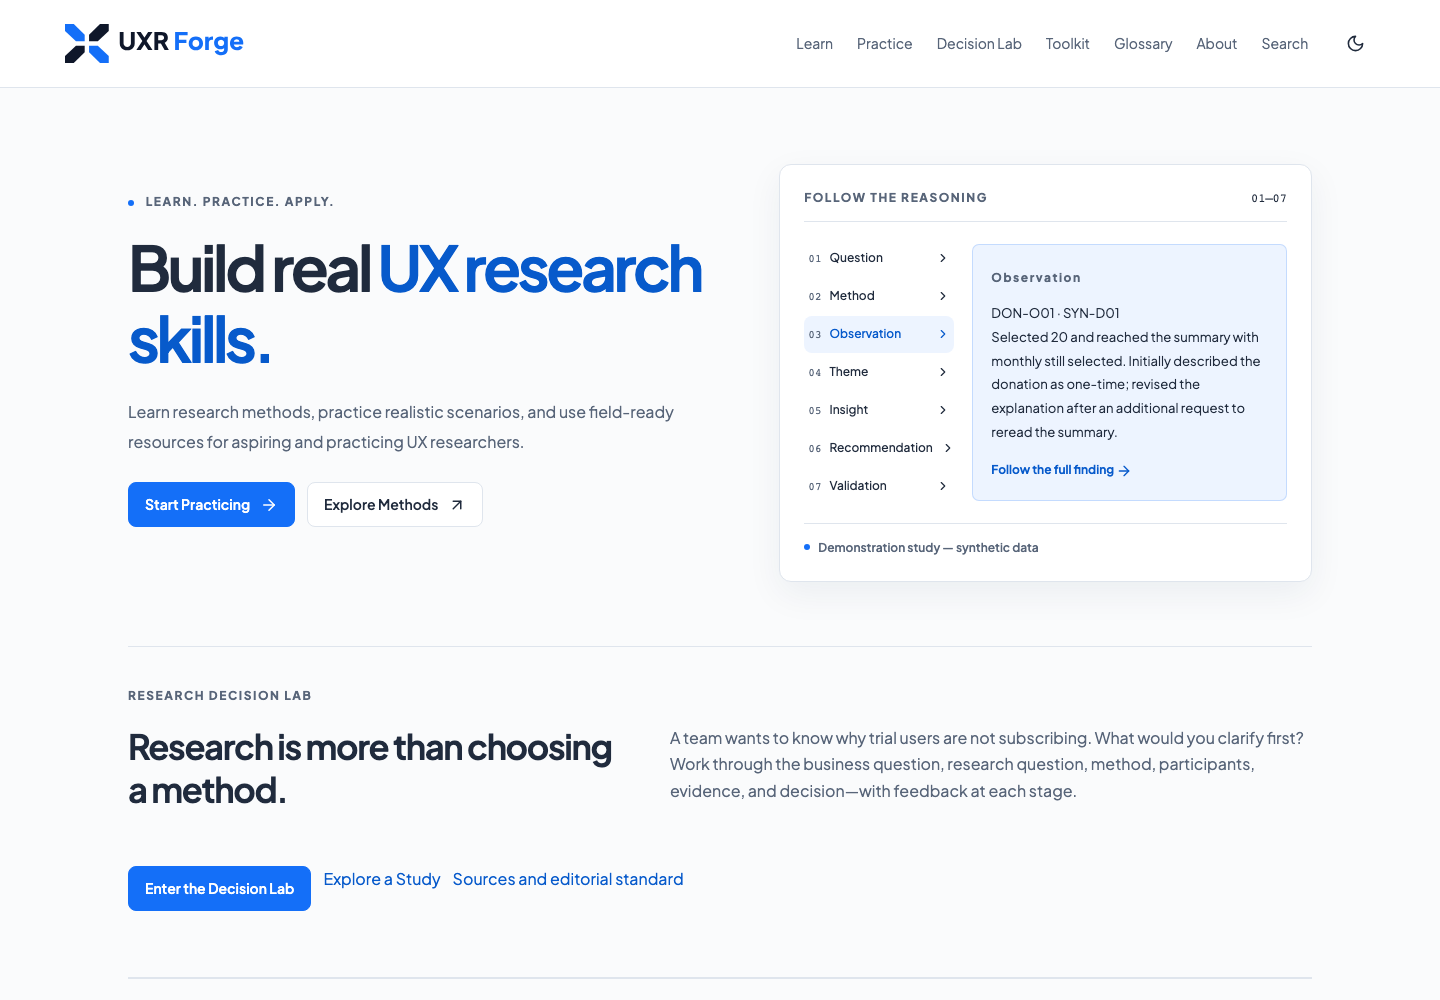
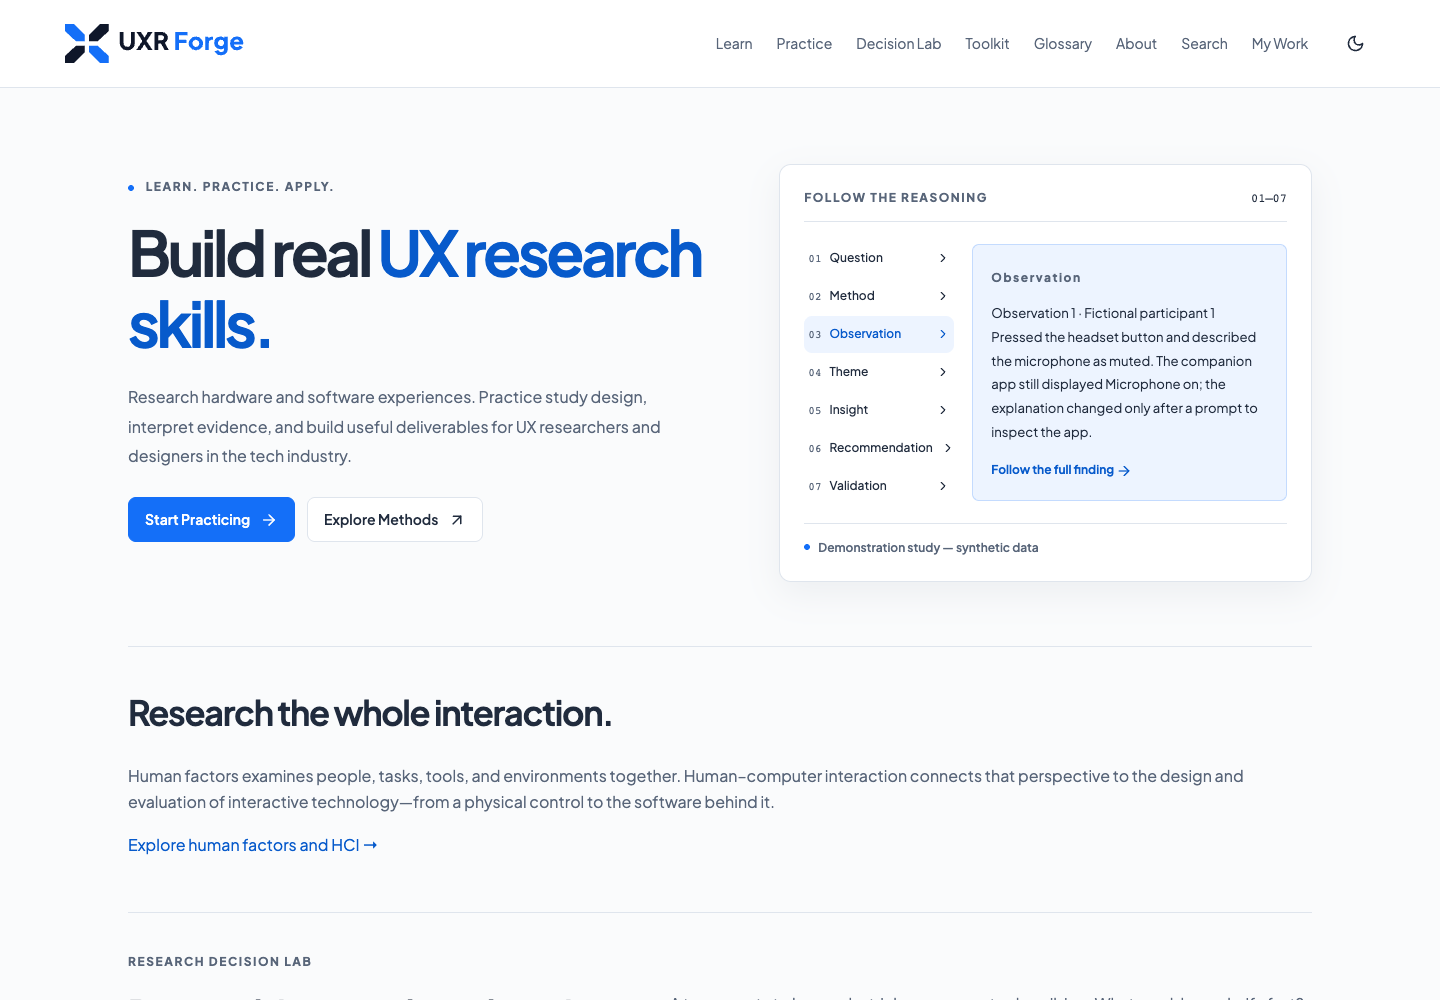
Align UXR Forge case study with hardware and software research

diff --git a/data/projects.ts b/data/projects.ts
@@ -322,27 +322,27 @@ export const projects: CaseStudy[] = [
     slug: 'uxr-forge',
     index: '06',
     title: 'UXR Forge',
-    subtitle: 'UXR Forge — User Research / Research Operations',
+    subtitle: 'UXR Forge — Hardware & Software UX Research',
     description:
-      'A workspace for practicing research planning and synthesis. The design helps learners choose a method, connect findings to observations, and explain their recommendations.',
-    category: 'User Research / Research Operations',
+      'A research practice workspace for hardware and software experiences. The design connects study planning, human factors, and evidence synthesis through examples such as a headset and its companion app.',
+    category: 'User Research / Hardware & Software',
     role: 'UX Designer',
     timeline: 'Dates to confirm',
     team: 'Authorship scope to confirm',
     platform: 'Web',
-    services: ['User Research', 'Research Strategy', 'Interaction Design'],
+    services: ['User Research', 'Human Factors', 'Interaction Design'],
     accent: '#496856',
     status: 'ready',
     focus:
-      'A research learning and practice environment that connects questions, methods, evidence, and proposed decisions.',
+      'A workspace for practicing research across hardware and software, connecting physical actions, interface feedback, and the evidence behind a design decision.',
     researchPrompts: [],
     designPrompts: [],
     reflectionPrompts: [],
     narrative: {
       question:
-        'How can learners practice the reasoning behind a research decision?',
+        'How can researchers examine the whole interaction—from a physical control to the software behind it?',
       context:
-        'Learning the steps of research is different from deciding which method fits a question or whether an observation supports a recommendation. UXR Forge brings method guidance, practice exercises, study planning, and synthesis into one workspace. Its example studies use fictional practice data.',
+        'Hardware and software can tell conflicting stories: a headset button may suggest the microphone is muted while its companion app shows it is on. UXR Forge uses examples like this to help learners consider physical actions, feedback, and context when planning research. Method guidance, practice exercises, study planning, and synthesis share one workspace. The examples use fictional practice data.',
       constraint:
         'Written feedback can explain a method’s strengths and limitations, but it cannot account for every detail of a research situation. Exercises therefore use explanation and reflection rather than a score that could imply there is one correct answer.',
       flow: [

diff --git a/components/case-visuals.tsx b/components/case-visuals.tsx
@@ -479,7 +479,7 @@ export function DetailVisual({ slug, index }: { slug: string; index: number }) {
     return (
       <Screen
         path="uxr-forge/screens/synthesis.png"
-        alt="UXR Forge synthesis workspace for linking evidence and interpretation"
+        alt="UXR Forge synthesis workspace using the connected-headset hardware and software practice study"
         caption="Each finding links to the observations behind it. This screen uses fictional practice data."
       />
     );
@@ -597,6 +597,41 @@ export function DetailVisual({ slug, index }: { slug: string; index: number }) {
   );
 }
 export function ResponsiveVisual({ slug }: { slug: string }) {
+  if (slug === 'uxr-forge')
+    return (
+      <Exhibit
+        label="HARDWARE & SOFTWARE / PRACTICE EXAMPLE"
+        title="One action. Two places to check the result."
+      >
+        <p>
+          The connected-headset example asks whether a physical mute button, a
+          status light, and a companion app communicate the same microphone
+          state. It also explores what happens when the connection drops.
+        </p>
+        <Chain
+          items={[
+            ['Physical action', 'Press the headset’s mute control.'],
+            [
+              'Software feedback',
+              'Check whether the app reports the same microphone state.',
+            ],
+            [
+              'Research question',
+              'Can someone explain what the other caller can hear?',
+            ],
+            [
+              'Next evaluation',
+              'Test timing, feedback, and recovery on working hardware.',
+            ],
+          ]}
+        />
+        <Screen
+          path="uxr-forge/screens/headset-finding.png"
+          alt="Connected-headset practice finding linking physical mute actions to companion-app feedback and fictional observations"
+          caption="Current UXR Forge interface. This teaching example uses fictional observations; no hardware testing or participant sessions are claimed."
+        />
+      </Exhibit>
+    );
   if (slug !== 'uxd-systems' && slug !== 'palette-snap') return null;
   return (
     <Exhibit

diff --git a/components/project-cover.tsx b/components/project-cover.tsx
@@ -15,7 +15,7 @@ export function ProjectCover({ project }: { project: CaseStudy }) {
     project.slug === 'uxd-systems'
       ? 'details/token-comfortable.png'
       : project.slug === 'uxr-forge'
-        ? 'screens/synthesis.png'
+        ? 'screens/headset-finding.png'
         : project.slug === '508-dev'
           ? 'details/target-comparison.png'
           : 'details/palette.png';
@@ -31,7 +31,7 @@ export function ProjectCover({ project }: { project: CaseStudy }) {
       <div className="cover-interface">
         <Image
           src={`/projects/${project.slug}/hero/desktop.png`}
-          alt={`${project.title} case-study cover showing the actual ${project.slug === 'uxd-systems' ? 'design-system comparison interface' : project.slug === 'uxr-forge' ? 'research learning workflow' : project.slug === '508-dev' ? 'target-size accessibility lesson' : 'palette refinement workspace'}`}
+          alt={`${project.title} case-study cover showing the actual ${project.slug === 'uxd-systems' ? 'design-system comparison interface' : project.slug === 'uxr-forge' ? 'hardware and software research workspace' : project.slug === '508-dev' ? 'target-size accessibility lesson' : 'palette refinement workspace'}`}
           width={1440}
           height={1000}
         />

diff --git a/components/project-media.tsx b/components/project-media.tsx
@@ -18,7 +18,7 @@ export function ProjectMedia({ project }: { project: CaseStudy }) {
           src={`/projects/${project.slug}/hero/desktop.png`}
           width={1440}
           height={1000}
-          alt={`${project.title}: ${project.slug === 'uxd-systems' ? 'aligned comparison of Apple HIG, Material 3, and Carbon' : project.slug === 'uxr-forge' ? 'research learning homepage with the question-to-validation model' : project.slug === '508-dev' ? 'target-size lesson with paired reference controls' : 'extracted palette and selected-color refinement controls'}`}
+          alt={`${project.title}: ${project.slug === 'uxd-systems' ? 'aligned comparison of Apple HIG, Material 3, and Carbon' : project.slug === 'uxr-forge' ? 'hardware and software research homepage with a connected-headset example' : project.slug === '508-dev' ? 'target-size lesson with paired reference controls' : 'extracted palette and selected-color refinement controls'}`}
           loading="lazy"
         />
       </div>
